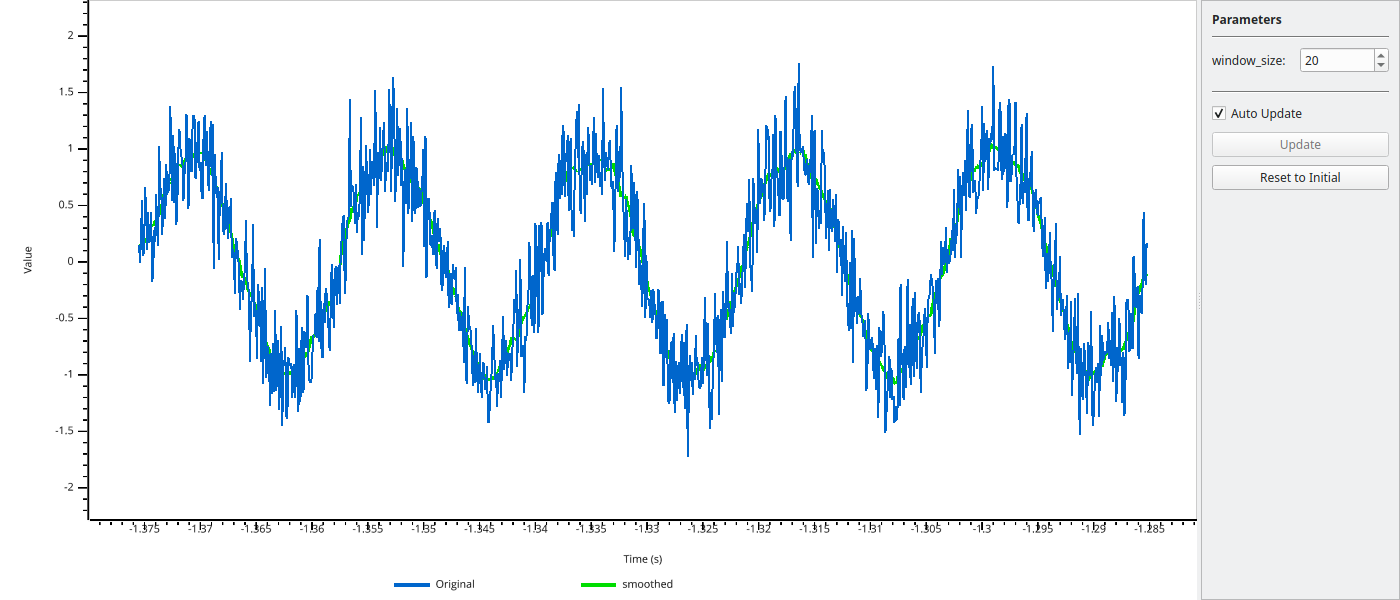
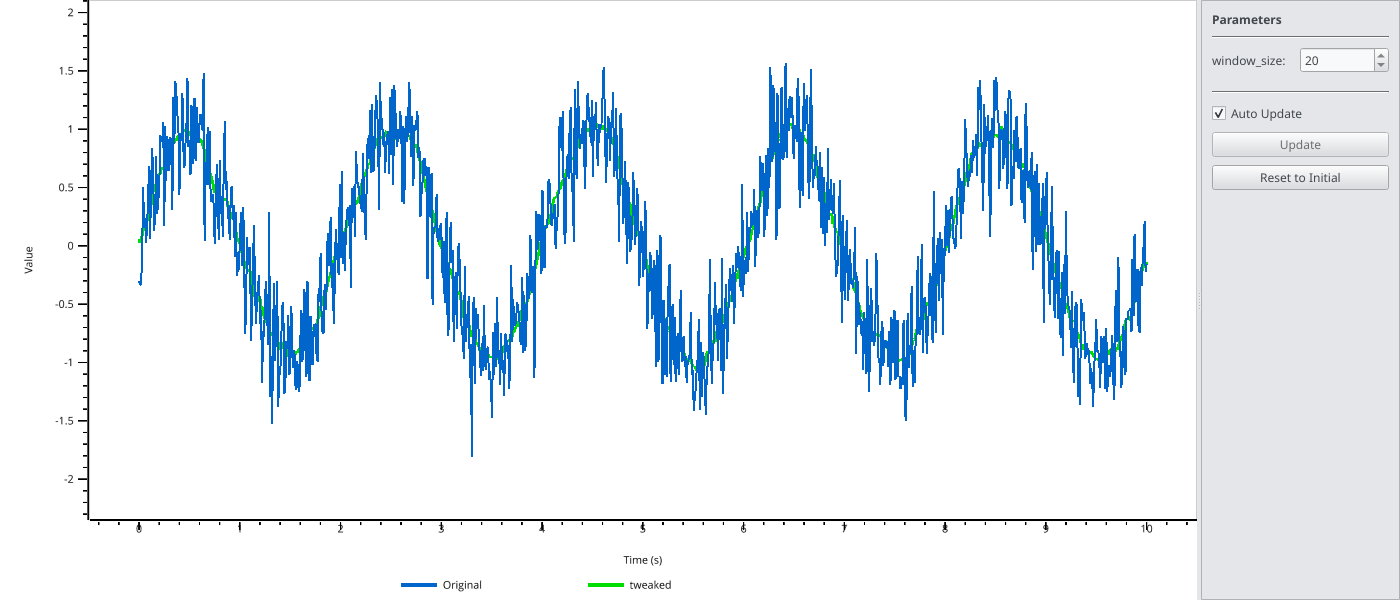
Retake the viewer and tweak screenshots (the old ones had a wrong time axis). Add a highlight screenshot and show screenshots on the interactive tools page.

diff --git a/docs/user_guide/viewer.rst b/docs/user_guide/viewer.rst
@@ -18,13 +18,14 @@ The simplest use case is viewing an :class:`EyeData` object directly:
     import pypillometry as pp
 
     eyedata = pp.get_example_data("rlmw_002_short")
+    eyedata.pupil_blinks_detect(apply_mask=True)
     pp.view(eyedata)
 
 .. image:: ../images/viewer_eyedata.png
    :alt: Viewer showing EyeData with pupil, x, and y subplots
    :width: 100%
 
-The viewer automatically creates subplots for each modality (pupil, x, y) and shows both left (blue) and right (red) eye data. Masked regions are highlighted in orange.
+The viewer automatically creates subplots for each modality (pupil, x, y) and shows both left (blue) and right (red) eye data. Masked regions (here, the detected blinks) are highlighted in orange. Event labels are shown when you zoom in far enough that at most ten events are visible.
 
 
 Viewing Numpy Arrays
@@ -59,7 +60,7 @@ For EyeData objects, you can filter which modalities to display using the ``vari
     import pypillometry as pp
 
     eyedata = pp.get_example_data("rlmw_002_short")
-    pp.view(eyedata, variables=['pupil'])
+    pp.view(eyedata, variables=["pupil"])
 
 .. image:: ../images/viewer_pupil_only.png
    :alt: Viewer showing only pupil data
@@ -83,13 +84,10 @@ You can overlay additional data on top of the main plots for comparison. This is
     import pypillometry as pp
 
     eyedata = pp.get_example_data("rlmw_002_short")
-    
-    # Create a smoothed version of the pupil signal
-    pupil = np.array(eyedata['left_pupil'])
-    kernel = np.ones(50) / 50
-    smoothed = np.convolve(pupil, kernel, mode='same')
-    
-    pp.view(eyedata, variables=['pupil'], overlay_pupil={'smoothed': smoothed})
+    smoothed = eyedata.pupil_lowpass_filter(cutoff=2, inplace=False)
+
+    pp.view(eyedata, variables=["pupil"],
+            overlay_pupil={"smoothed": smoothed["left_pupil"]})
 
 .. image:: ../images/viewer_overlay.png
    :alt: Viewer showing pupil data with smoothed overlay
@@ -109,12 +107,12 @@ You can add additional subplots below the main EyeData variables using ``extra_p
     import pypillometry as pp
 
     eyedata = pp.get_example_data("rlmw_002_short")
-    
+
     # Compute velocity (derivative of pupil size)
-    pupil = np.array(eyedata['left_pupil'])
+    pupil = np.array(eyedata["left_pupil"])
     velocity = np.gradient(pupil)
-    
-    pp.view(eyedata, variables=['pupil'], extra_plots={'velocity': velocity})
+
+    pp.view(eyedata, variables=["pupil"], extra_plots={"velocity": velocity})
 
 .. image:: ../images/viewer_extra_plots.png
    :alt: Viewer showing pupil data with velocity subplot
@@ -131,13 +129,23 @@ Use ``highlight`` to shade :class:`Intervals` (e.g., detected blinks) in the plo
     import pypillometry as pp
 
     eyedata = pp.get_example_data("rlmw_002_short")
-    blinks = eyedata.pupil_blinks_detect(eyes='left')  # Intervals
+    blinks = eyedata.pupil_blinks_detect(eyes="left")  # Intervals
 
-    # same intervals in all subplots
-    pp.view(eyedata, highlight=blinks, highlight_color='orange')
+    pp.view(eyedata, variables=["pupil"], highlight=blinks)
+
+.. image:: ../images/viewer_highlight.png
+   :alt: Viewer showing pupil data with blinks highlighted in light blue
+   :width: 100%
+
+To use another color or to highlight different intervals in each subplot:
+
+.. code-block:: python
+
+    # same intervals in all subplots, in orange
+    pp.view(eyedata, highlight=blinks, highlight_color="orange")
 
     # or per subplot
-    pp.view(eyedata, highlight={'pupil': blinks})
+    pp.view(eyedata, highlight={"pupil": blinks})
 
 ``highlight`` is either a single :class:`Intervals` object (shown in all subplots) or a dict mapping subplot keys to :class:`Intervals`. The keys are ``'pupil'``, ``'x'``, ``'y'`` and ``'extra_<label>'`` for ``extra_plots`` (EyeData), or the plot labels (arrays). Intervals in time units are converted to seconds, sample-index Intervals are placed using the time vector.
 

diff --git a/docs/user_guide/interactive.rst b/docs/user_guide/interactive.rst
@@ -7,14 +7,25 @@ Interactive tools
 window. They use `VisPy <https://vispy.org>`_ for fast OpenGL rendering, so
 even long recordings (60+ minutes at 1000 Hz) can be browsed smoothly.
 
-:func:`view`
-    Explore an :class:`EyeData` object or numpy arrays: zoom, scroll,
-    show masked regions and events, overlay several signals and select
-    regions. Also available from the command line as ``pypilview``.
+.. grid:: 1 1 2 2
+   :gutter: 3
 
-:func:`tweak`
-    Tune the parameters of a function (e.g., a filter or blink detection)
-    while you see the result on the data.
+   .. grid-item-card:: ``view()``: browse recordings
+      :link: viewer
+      :link-type: doc
+      :img-bottom: ../images/viewer_eyedata.png
+
+      Explore an :class:`EyeData` object or numpy arrays: zoom, scroll,
+      show masked regions and events, overlay several signals and select
+      regions. Also available from the command line as ``pypilview``.
+
+   .. grid-item-card:: ``tweak()``: tune parameters
+      :link: tweak
+      :link-type: doc
+      :img-bottom: ../images/tweak_intervals.png
+
+      Tune the parameters of a function (e.g., a filter or blink
+      detection) while you see the result on the data.
 
 Both tools share their keyboard shortcuts. Press :kbd:`H` or :kbd:`?` in
 the window to see them.
